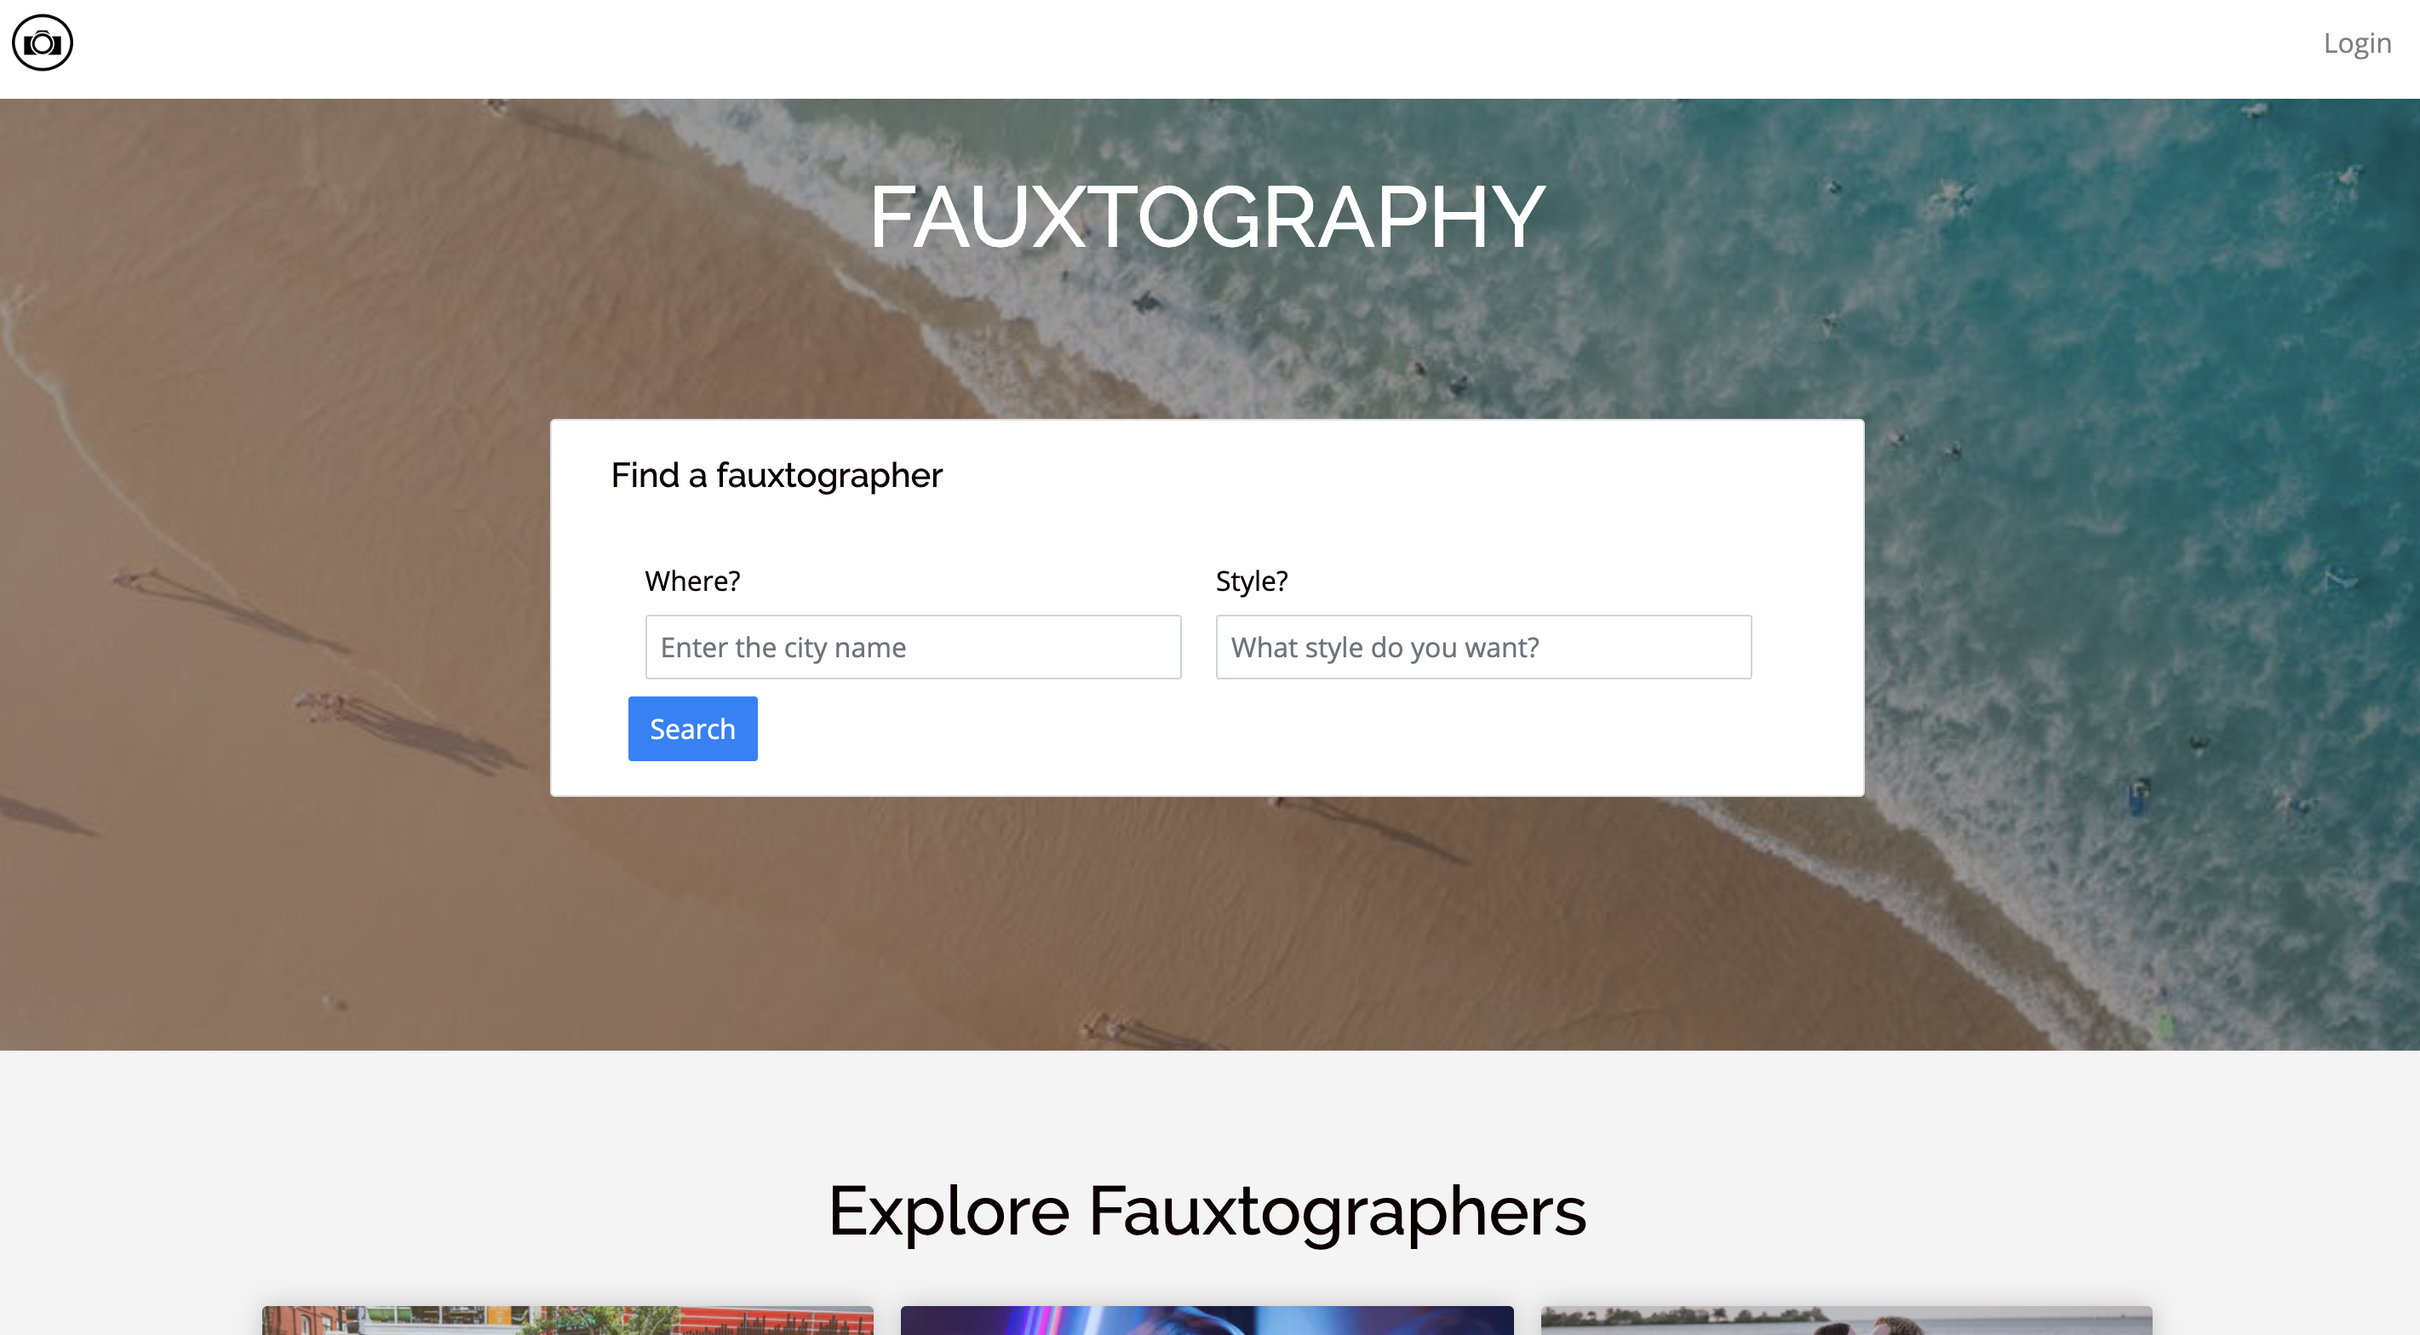
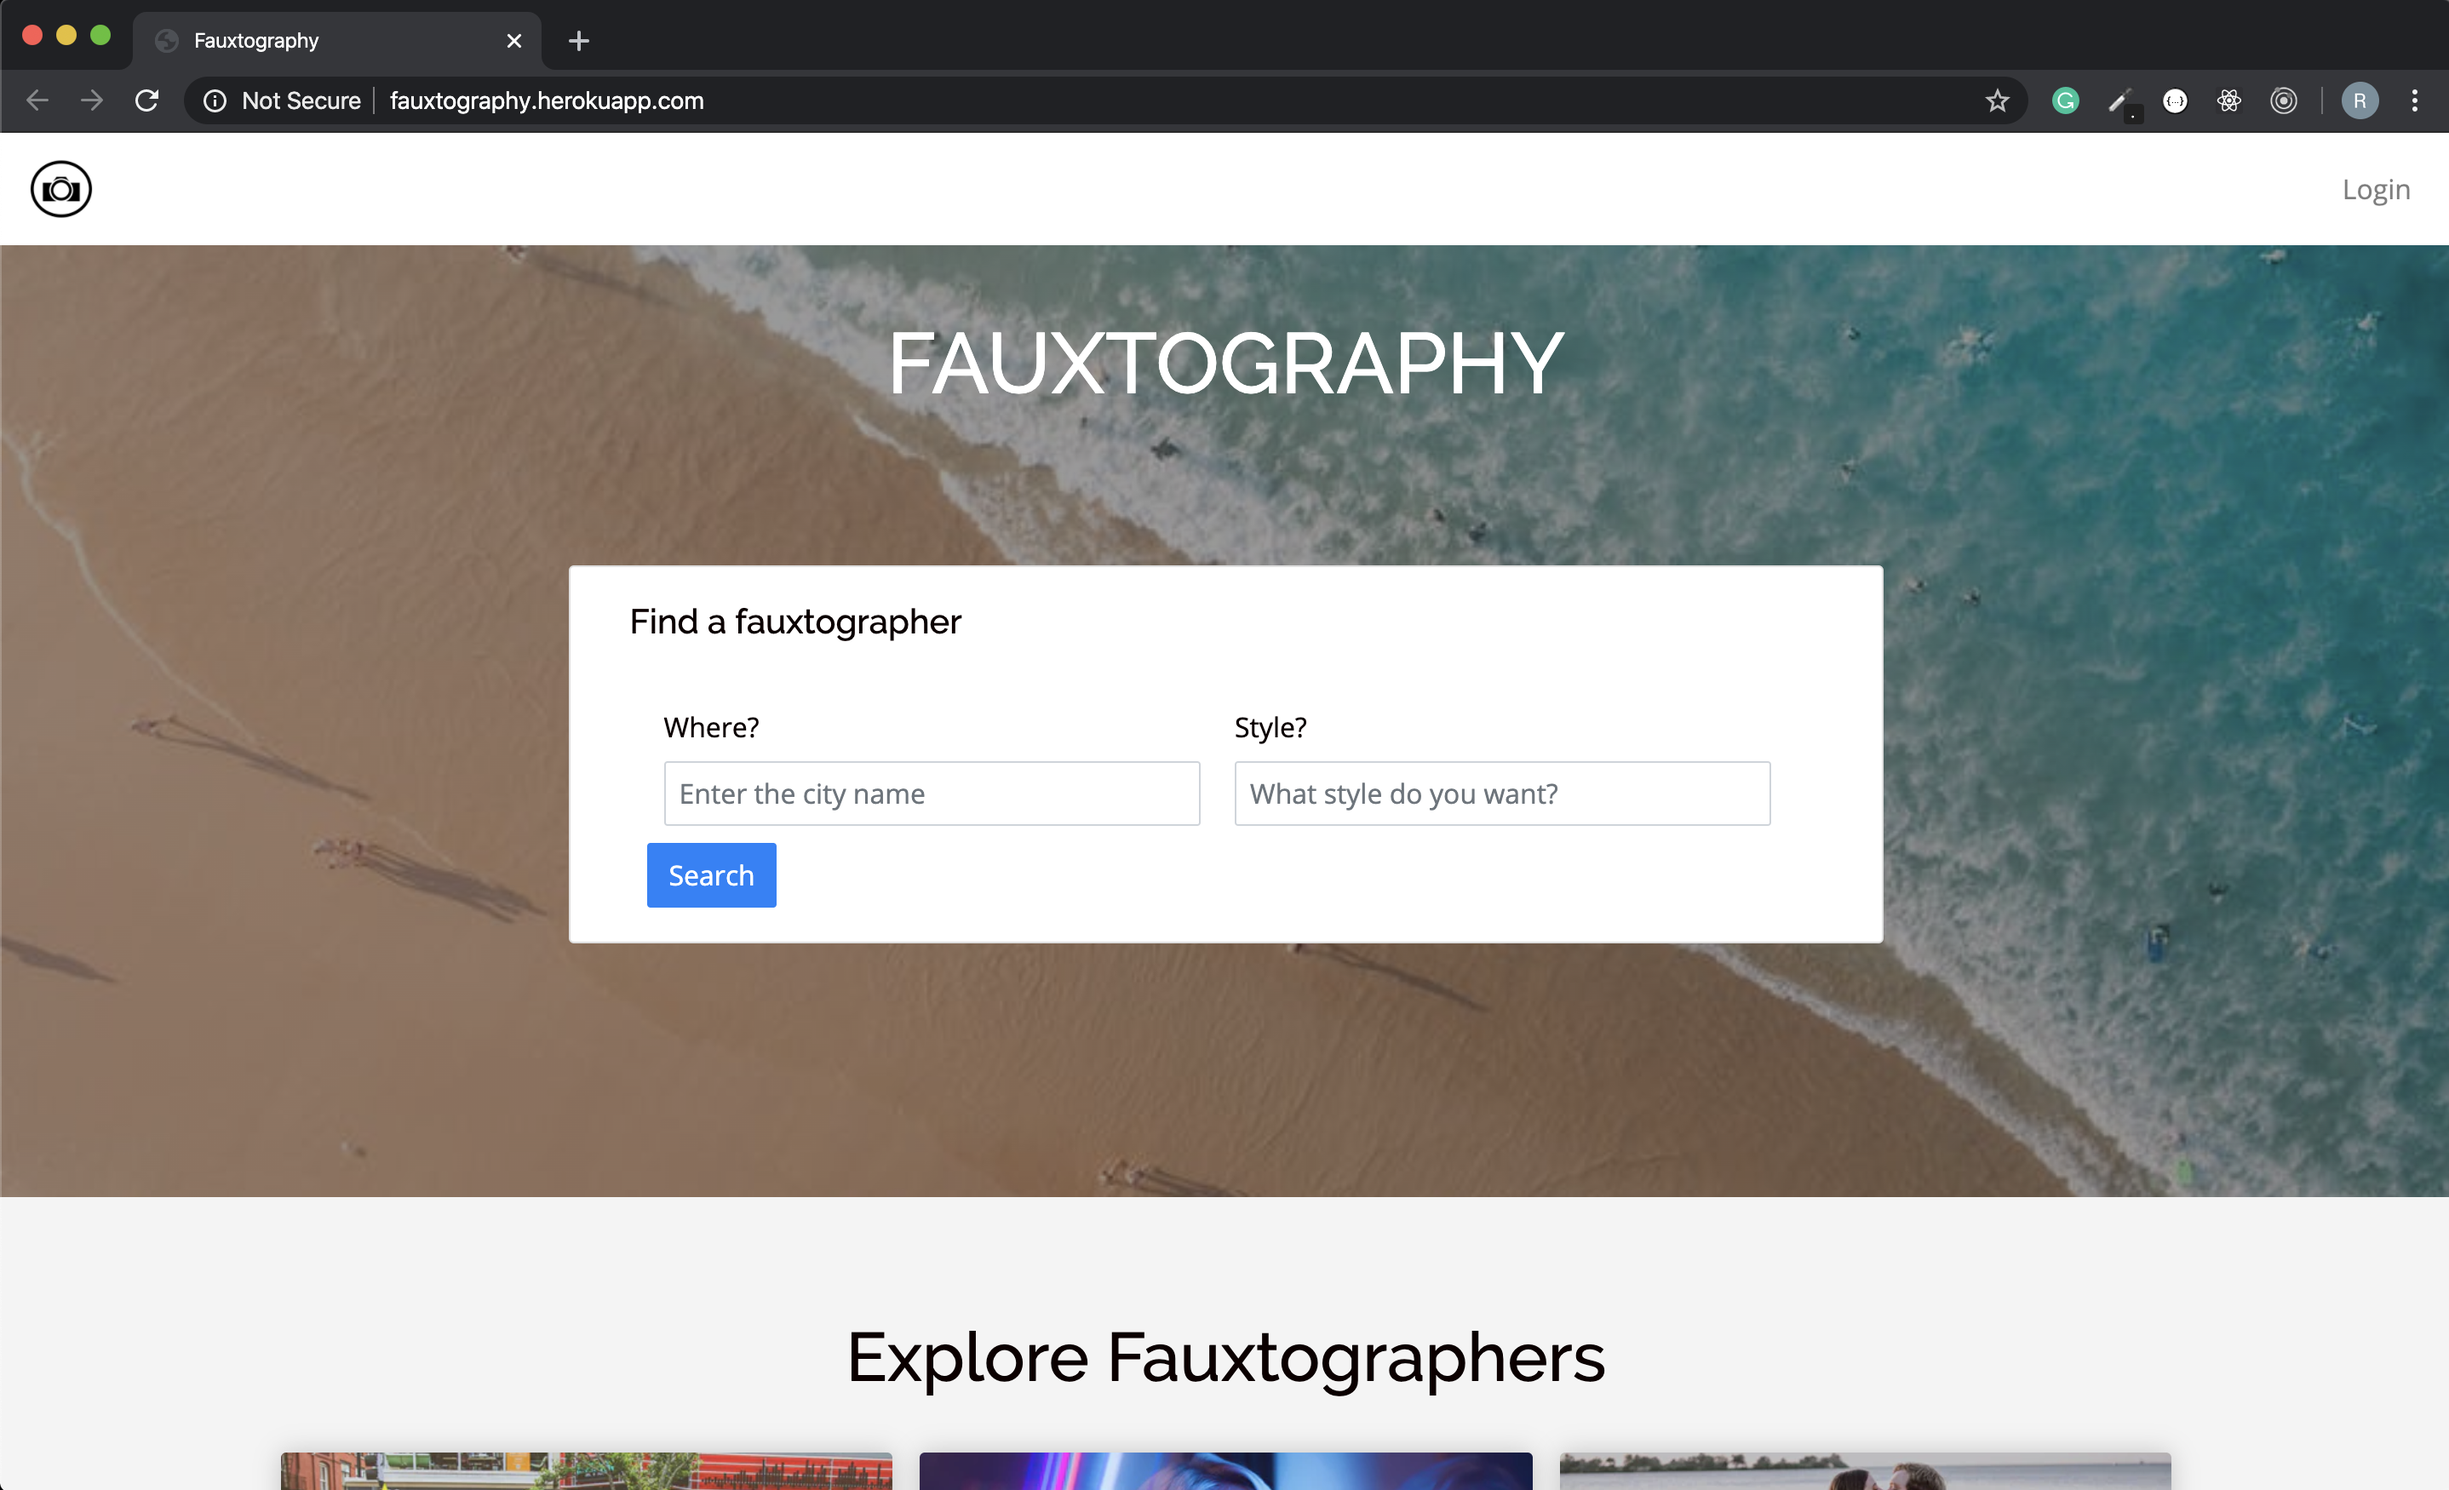
changed project photos

diff --git a/app/assets/stylesheets/components/_project-card.scss b/app/assets/stylesheets/components/_project-card.scss
@@ -4,15 +4,15 @@
   display: grid;
   grid-template-columns: 1fr 1fr;
   overflow: hidden;
-  background: white;
+  background: $gray;
   box-shadow: 0 0 15px rgba(0,0,0,0.2);
-  color: black;
 }
 
 .card > img {
-  height: 200px;
+  padding: 16px;
+  height: initial;
   width: 100%;
-  object-fit: cover;
+
 }
 
 .card-info {
@@ -40,8 +40,6 @@
 // }
 
 
-.card .card-infos {
-}
 
 // // Smallest device
 // @media (min-width: 100px) and (max-width: 575px) {

diff --git a/app/assets/stylesheets/config/_bootstrap_variables.scss b/app/assets/stylesheets/config/_bootstrap_variables.scss
@@ -10,7 +10,7 @@ $body-bg:                 $light-gray;
 $font-size-base: 1rem;
 
 // Colors
-$body-color: $gray;
+$body-color: black;
 $primary:    $blue;
 $success:    $green;
 $info:       $yellow;

diff --git a/app/assets/stylesheets/components/_banner.scss b/app/assets/stylesheets/components/_banner.scss
@@ -19,6 +19,7 @@
 }
 
 .banner p {
+  color: white;
   font-size: 20px;
   opacity: .7;
   text-shadow: 1px 1px 3px rgba(0,0,0,0.2);
